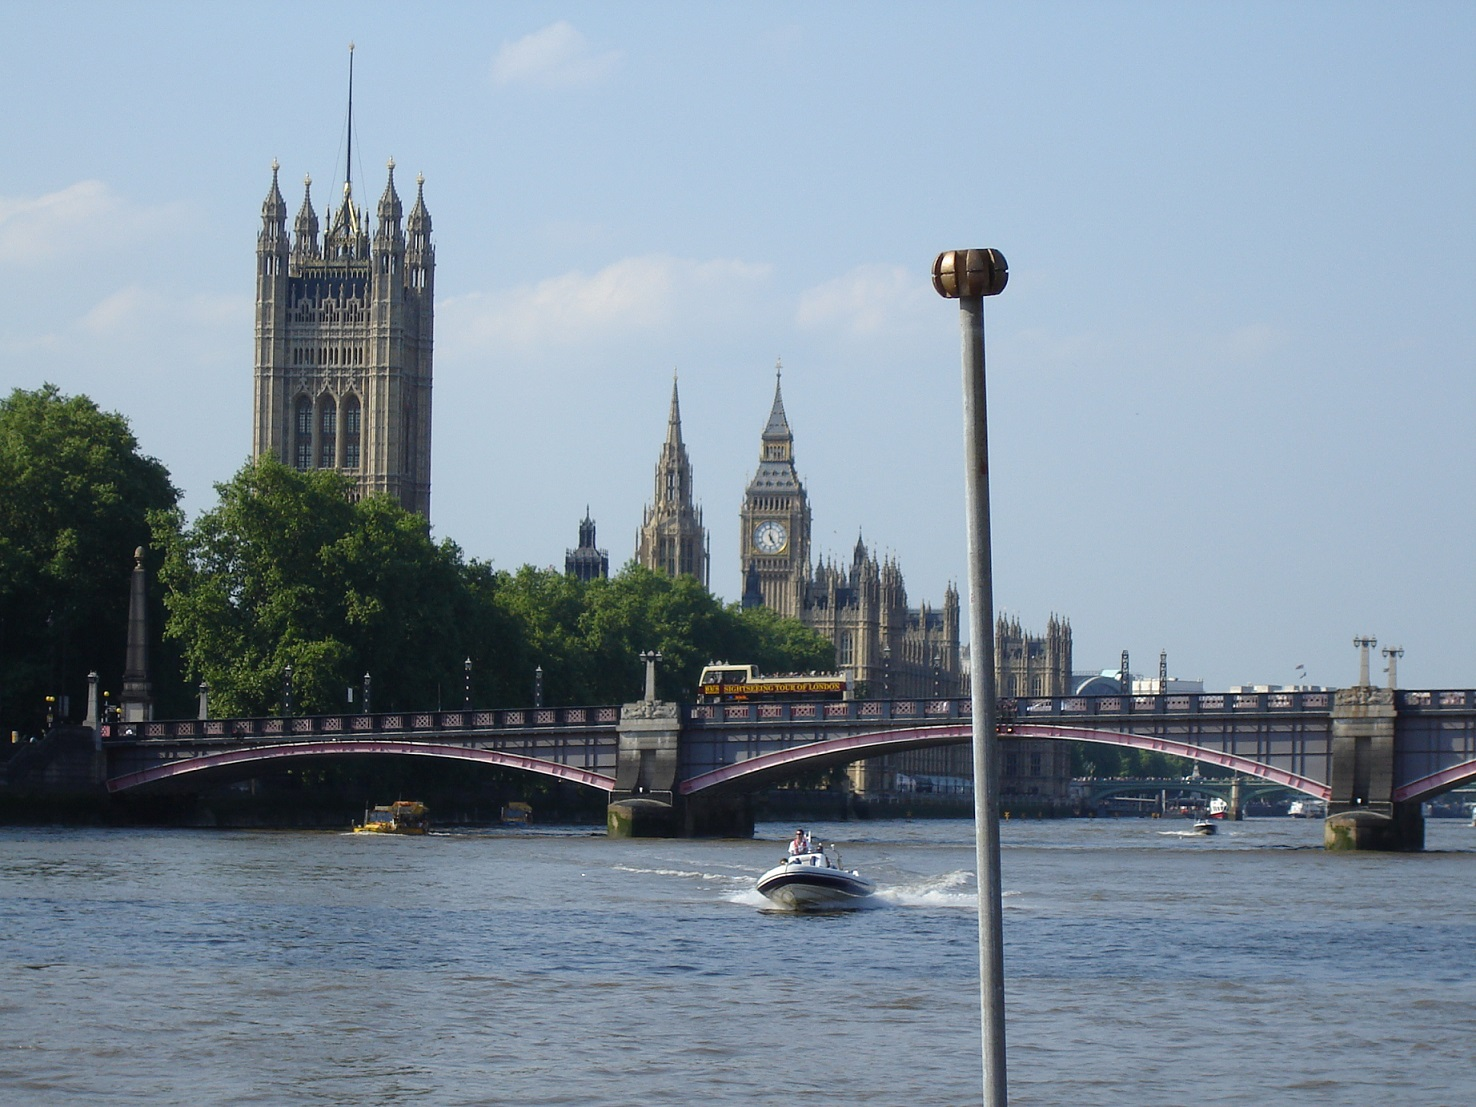
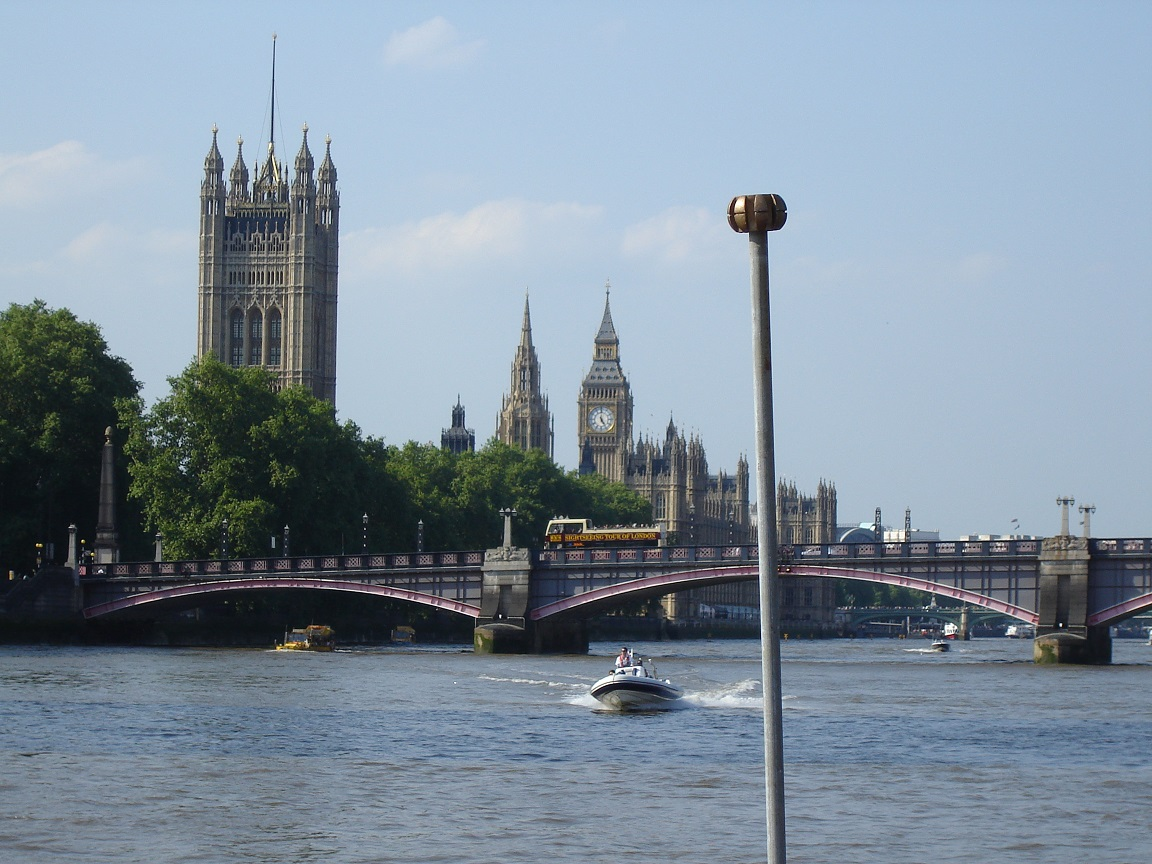
upp5 bild

diff --git a/content/postCategories/England.md b/content/postCategories/England.md
@@ -2,6 +2,6 @@
 template: BlogIndex
 title: England
 subtitle: ''
-featuredImage: '../../images/P1120792.JPG'
+featuredImage: '../../images/towern.jpg'
 ---
 
